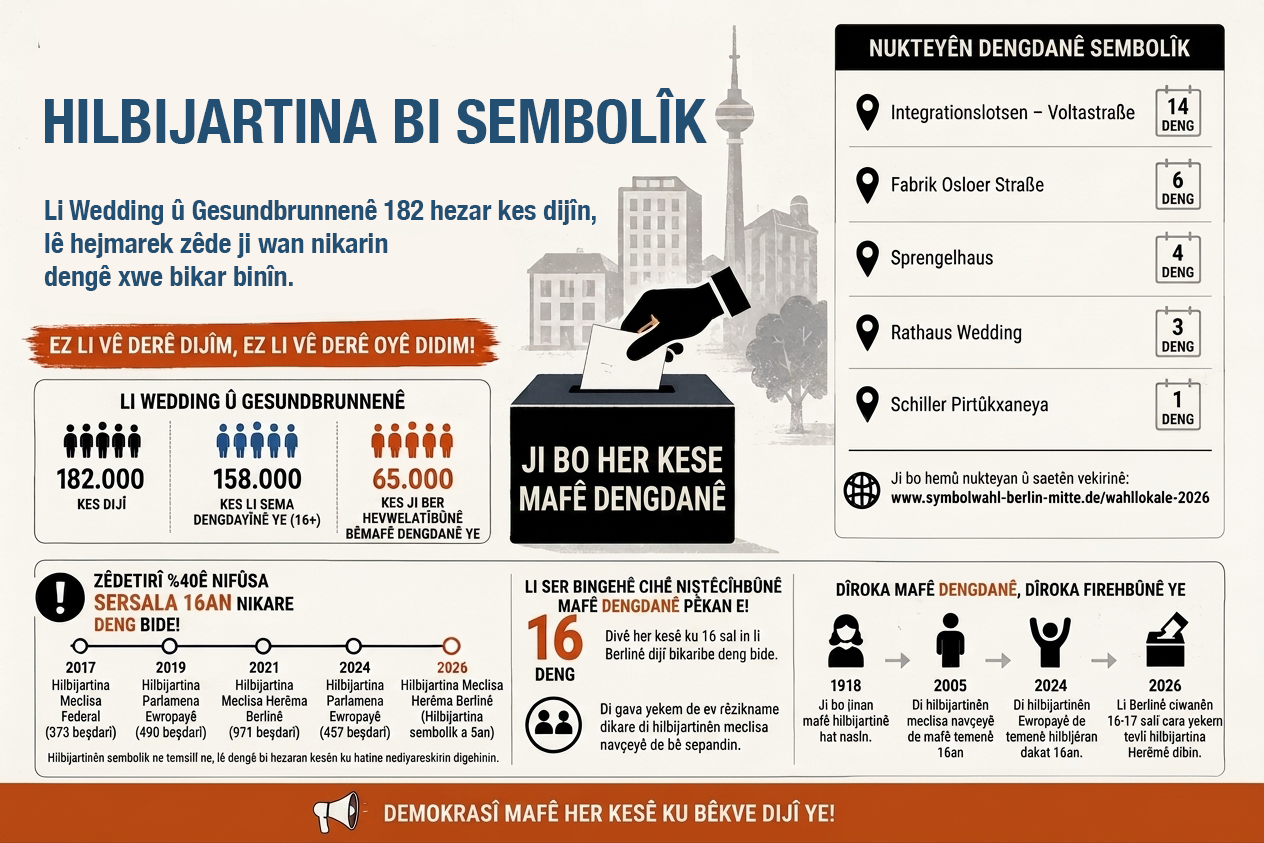
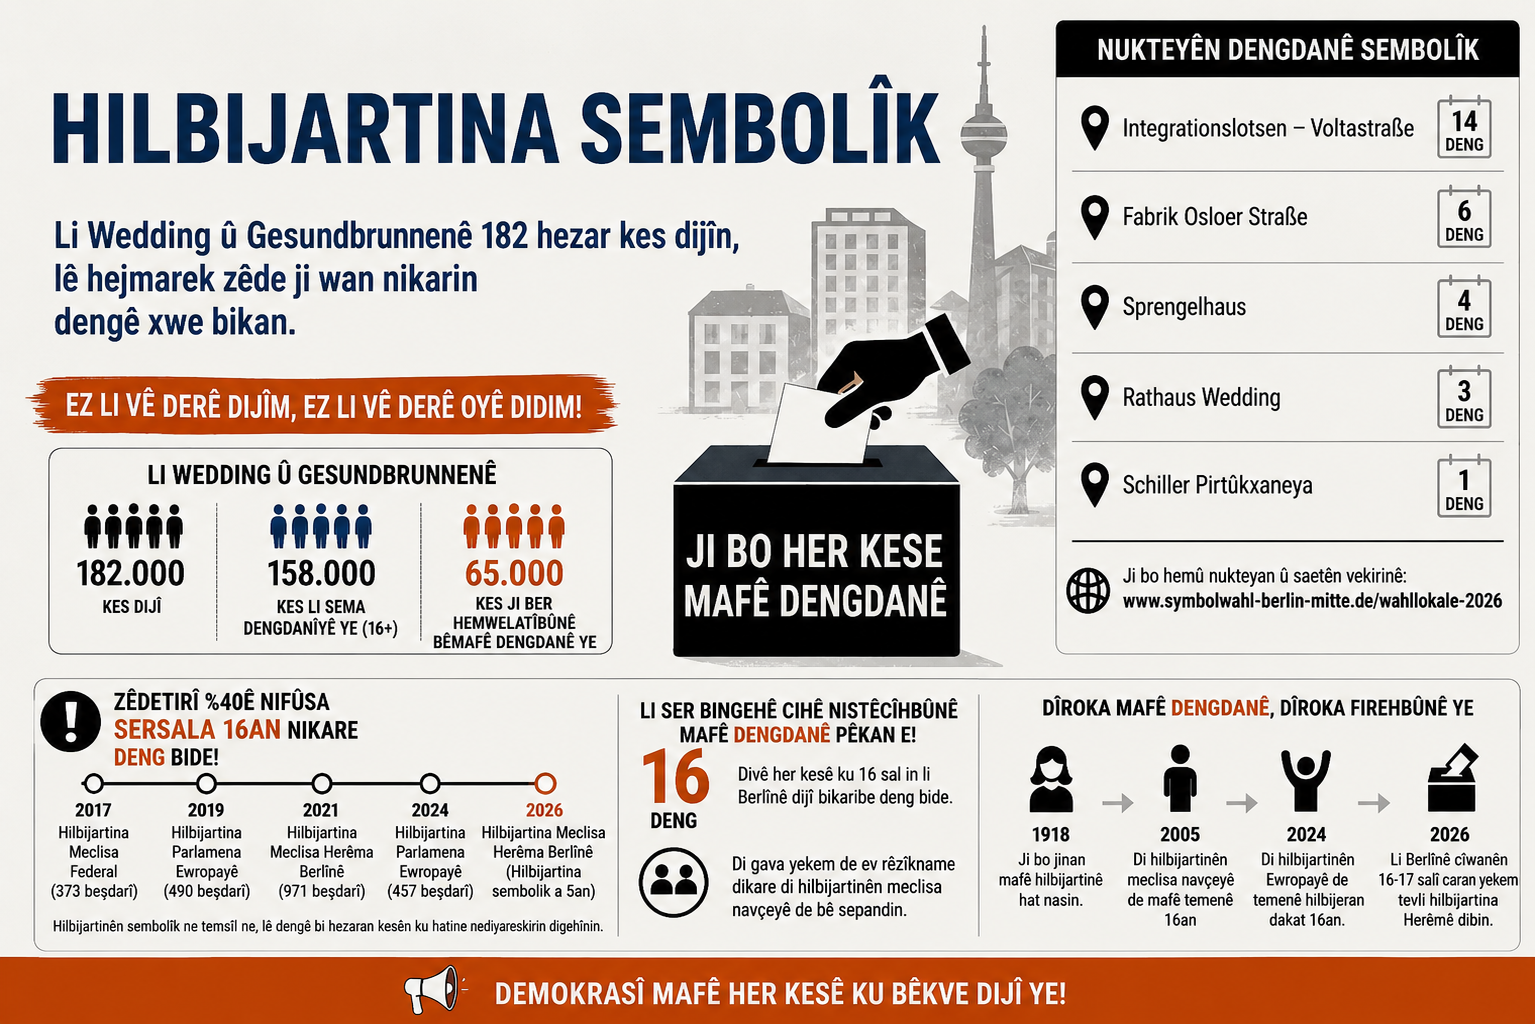
content: update Hilbijartina sembolîk: Bi Hezaran Dengdêr Nikarin Dengê Xwe Bikarbînin

diff --git a/aktuelles/index.html b/aktuelles/index.html
@@ -360,7 +360,7 @@
 
             <a class="post-card" href="/aktuelles/sembolik-secim-ikametgah-esasina-dayali-oy-hakki-ku" data-lang="ku" hreflang="ku" lang="ku">
               <div class="post-thumb">
-                <img src="/assets/blog/sembolik-secim-ikametgah-esasina-dayali-oy-hakki-ku-cover.png" alt="Hilbijartina sembolîk: Bi Hezaran Dengdêr Nikarin Dengê Xwe Bikarbînin" loading="lazy" width="1264" height="843">
+                <img src="/assets/blog/sembolik-secim-ikametgah-esasina-dayali-oy-hakki-ku-cover.png" alt="Hilbijartina sembolîk: Bi Hezaran Dengdêr Nikarin Dengê Xwe Bikarbînin" loading="lazy" width="1535" height="1024">
                 <span class="post-lang-badge"><span class="dot" aria-hidden="true"></span>Kurdî</span>
               </div>
               <div class="post-info">

diff --git a/aktuelles/sembolik-secim-ikametgah-esasina-dayali-oy-hakki-ku.html b/aktuelles/sembolik-secim-ikametgah-esasina-dayali-oy-hakki-ku.html
@@ -94,7 +94,7 @@
         <section class="article-cover">
           <div class="container">
             <figure>
-              <img src="/assets/blog/sembolik-secim-ikametgah-esasina-dayali-oy-hakki-ku-cover.png" alt="Hilbijartina sembolîk: Bi Hezaran Dengdêr Nikarin Dengê Xwe Bikarbînin" width="1264" height="843">
+              <img src="/assets/blog/sembolik-secim-ikametgah-esasina-dayali-oy-hakki-ku-cover.png" alt="Hilbijartina sembolîk: Bi Hezaran Dengdêr Nikarin Dengê Xwe Bikarbînin" width="1535" height="1024">
               <figcaption>Hilbijartina sembolîk: Bi Hezaran Dengdêr Nikarin Dengê Xwe Bikarbînin</figcaption>
             </figure>
           </div>
